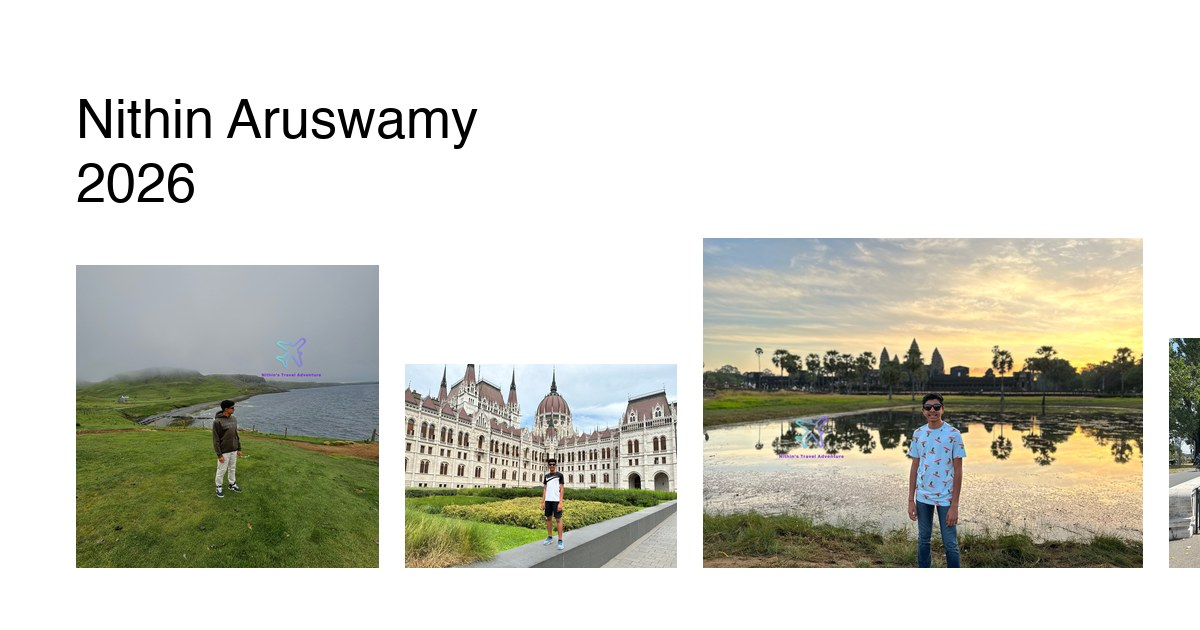
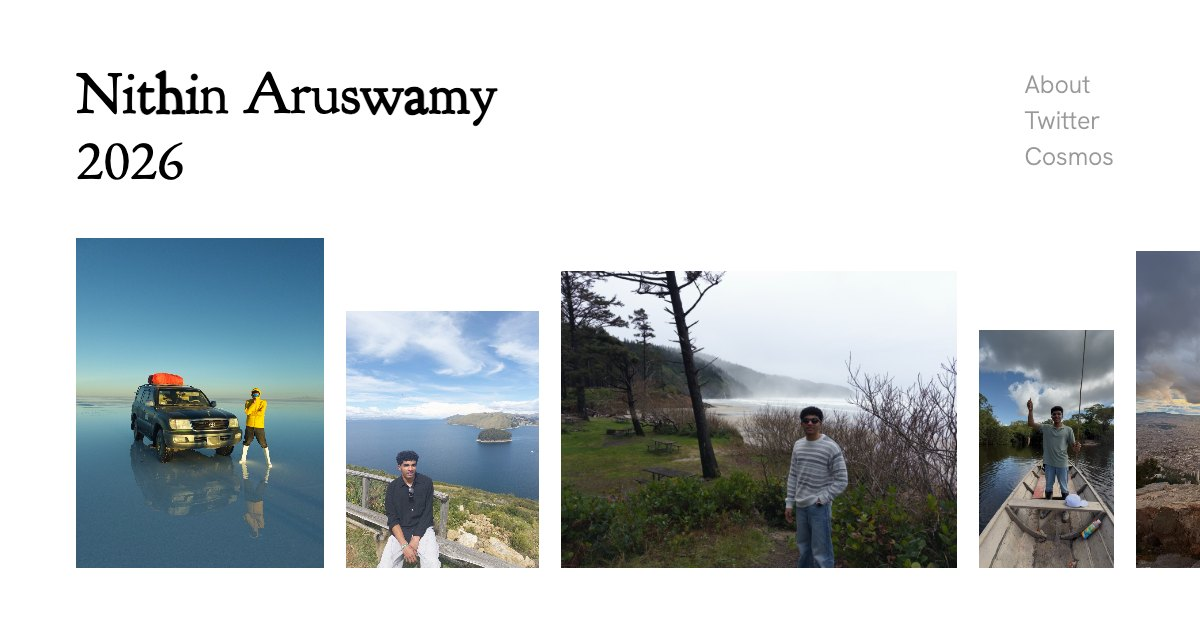
Rebuild the link-preview cover in the site's new style
Goudy name with a soft swell, EB Garamond year, the nav, and the newest
trips standing along the line. Drops the old Pillow cover script, which
no longer matched the data format, and the stale placeholder note in the
README.

diff --git a/index.html b/index.html
@@ -16,7 +16,7 @@
 <meta property="og:image:type" content="image/jpeg">
 <meta property="og:image:width" content="1200">
 <meta property="og:image:height" content="630">
-<meta property="og:image:alt" content="Nithin Aruswamy, 2026, and a line of travel photographs">
+<meta property="og:image:alt" content="Nithin Aruswamy, 2026, above a line of travel photographs">
 <meta name="twitter:card" content="summary_large_image">
 <meta name="twitter:title" content="Travel with Nithin">
 <meta name="twitter:description" content="Every trip, most recent first.">

diff --git a/README.md b/README.md
@@ -58,5 +58,6 @@ Your name and the nav links are at the top of the same file.
 
 ## Images
 
-`images/` holds generated placeholders. Replace them with your photos and delete
-`tools/generate-placeholders.py`.
+`images/` holds the trip photos. `og-cover.jpg` is the link-preview image
+(1200×630) shown when the site is shared; `sitemap.xml` lists the page and
+every photo for Google, so add new photos to it when you add a trip.
